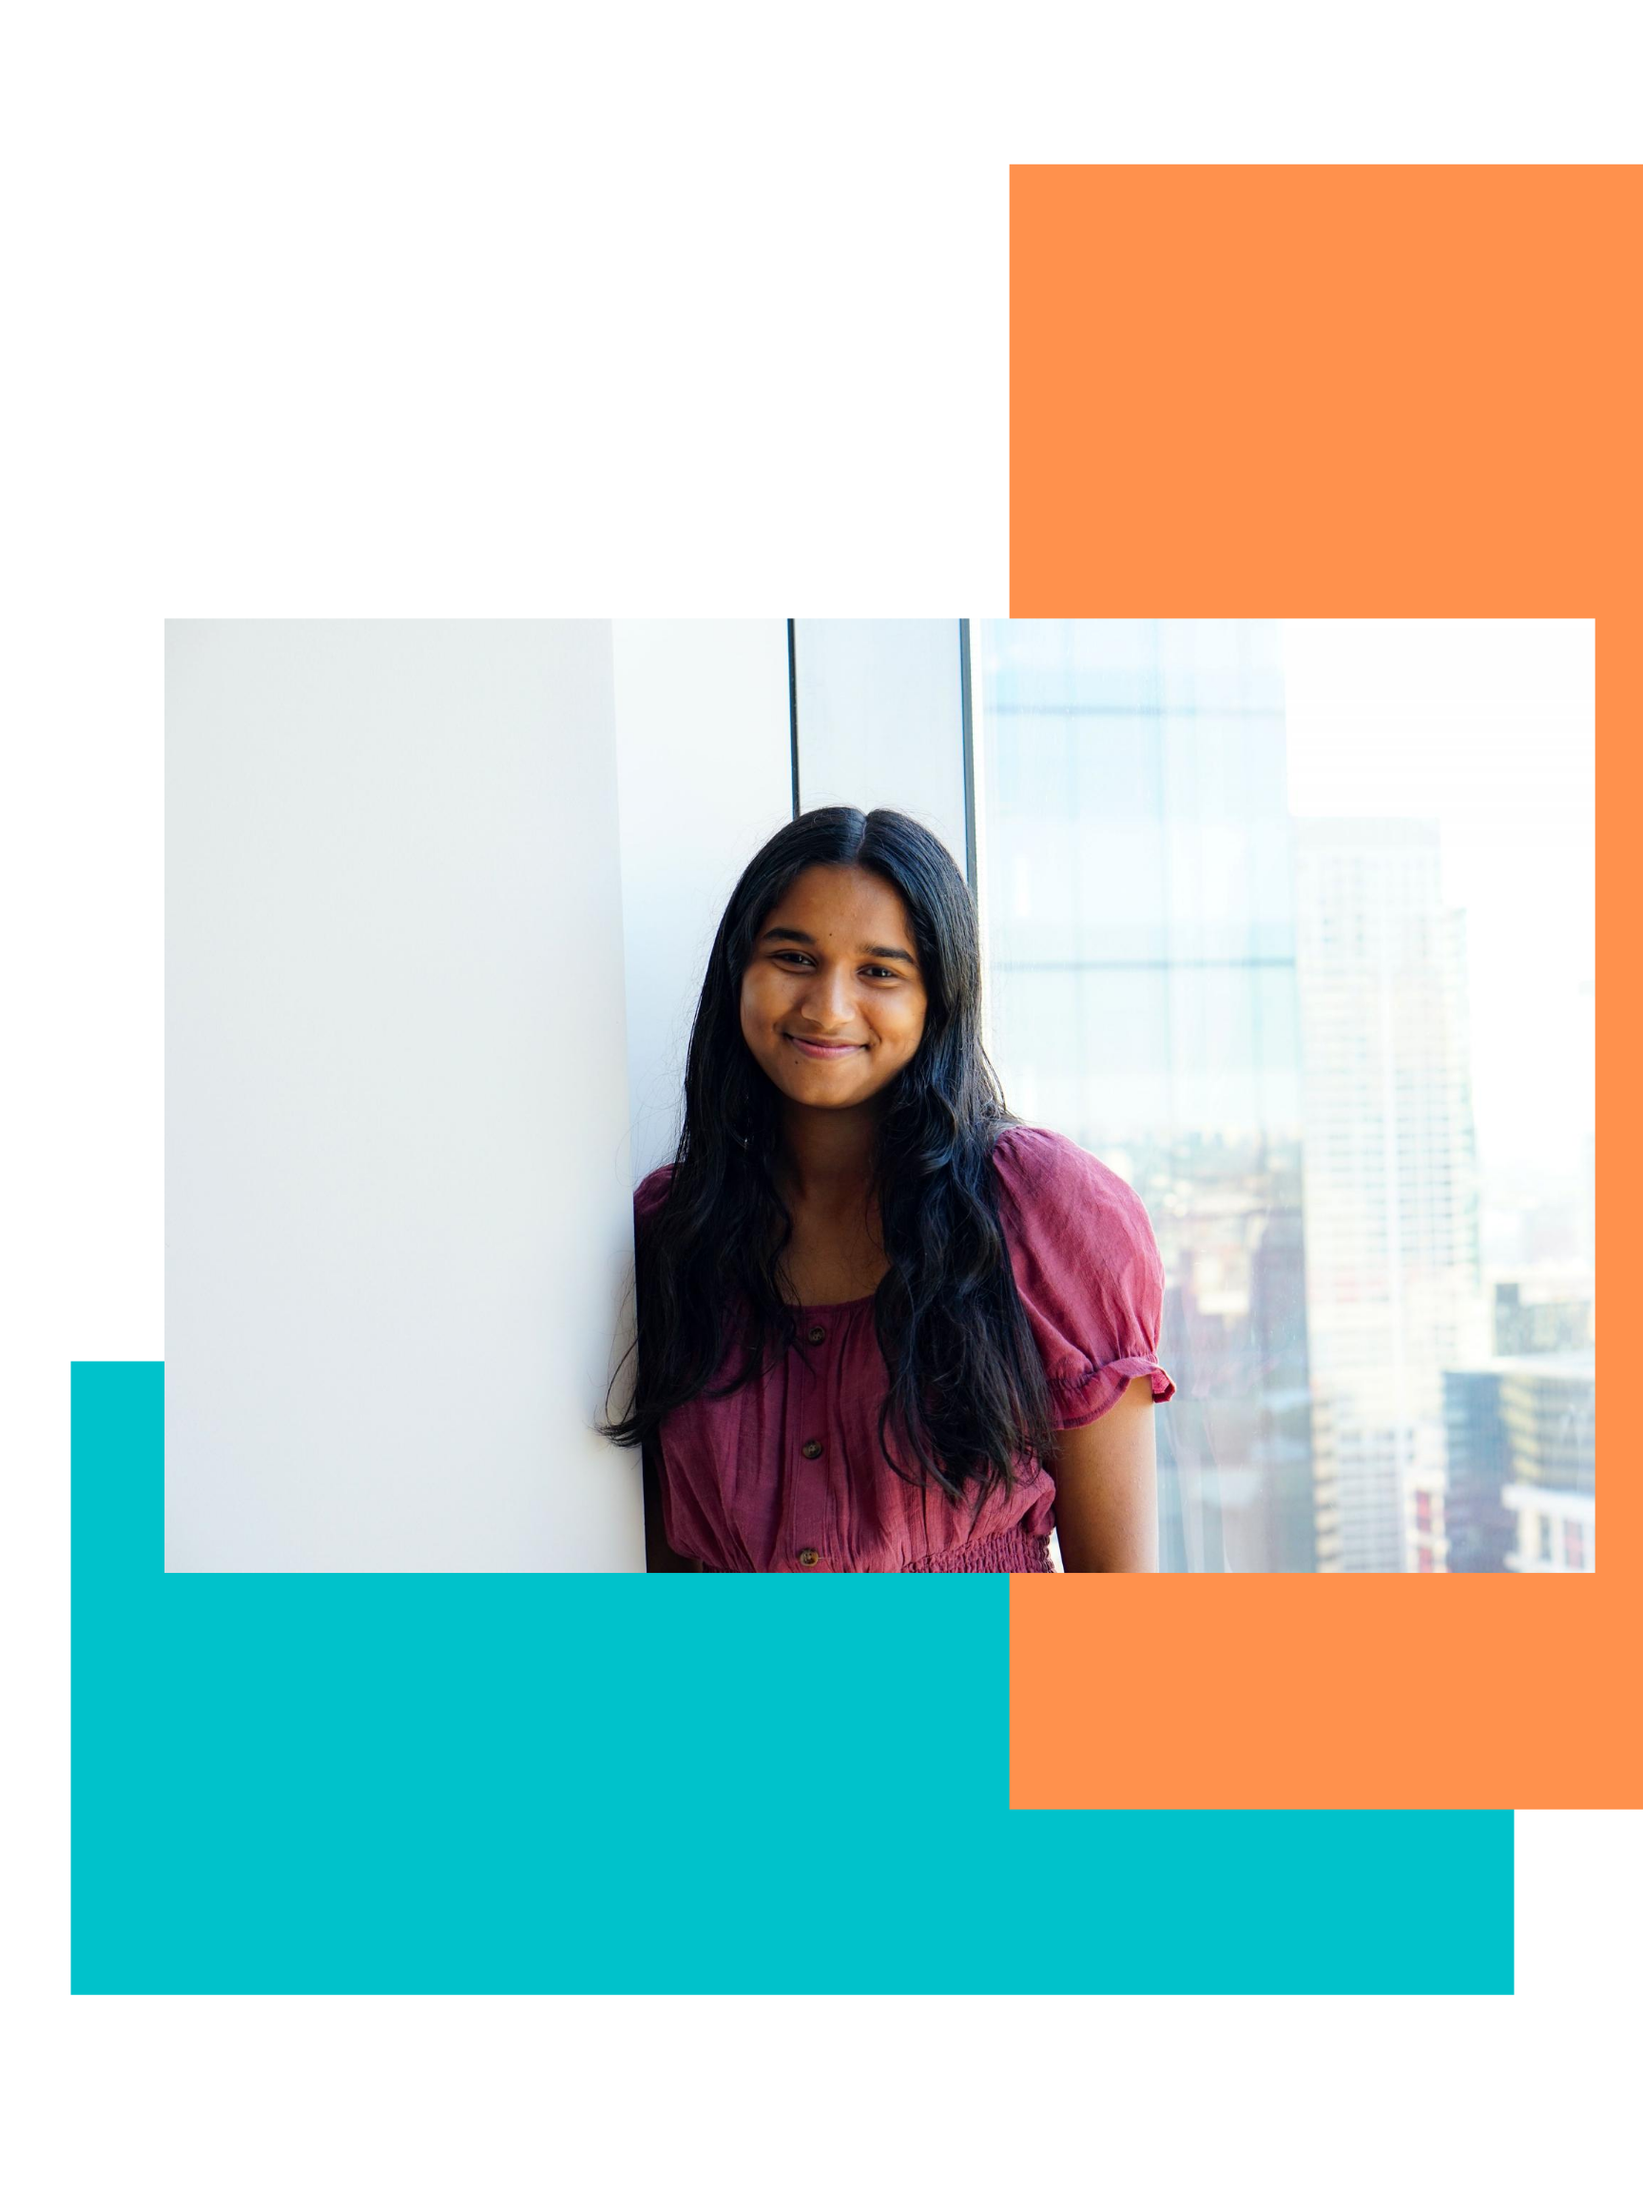
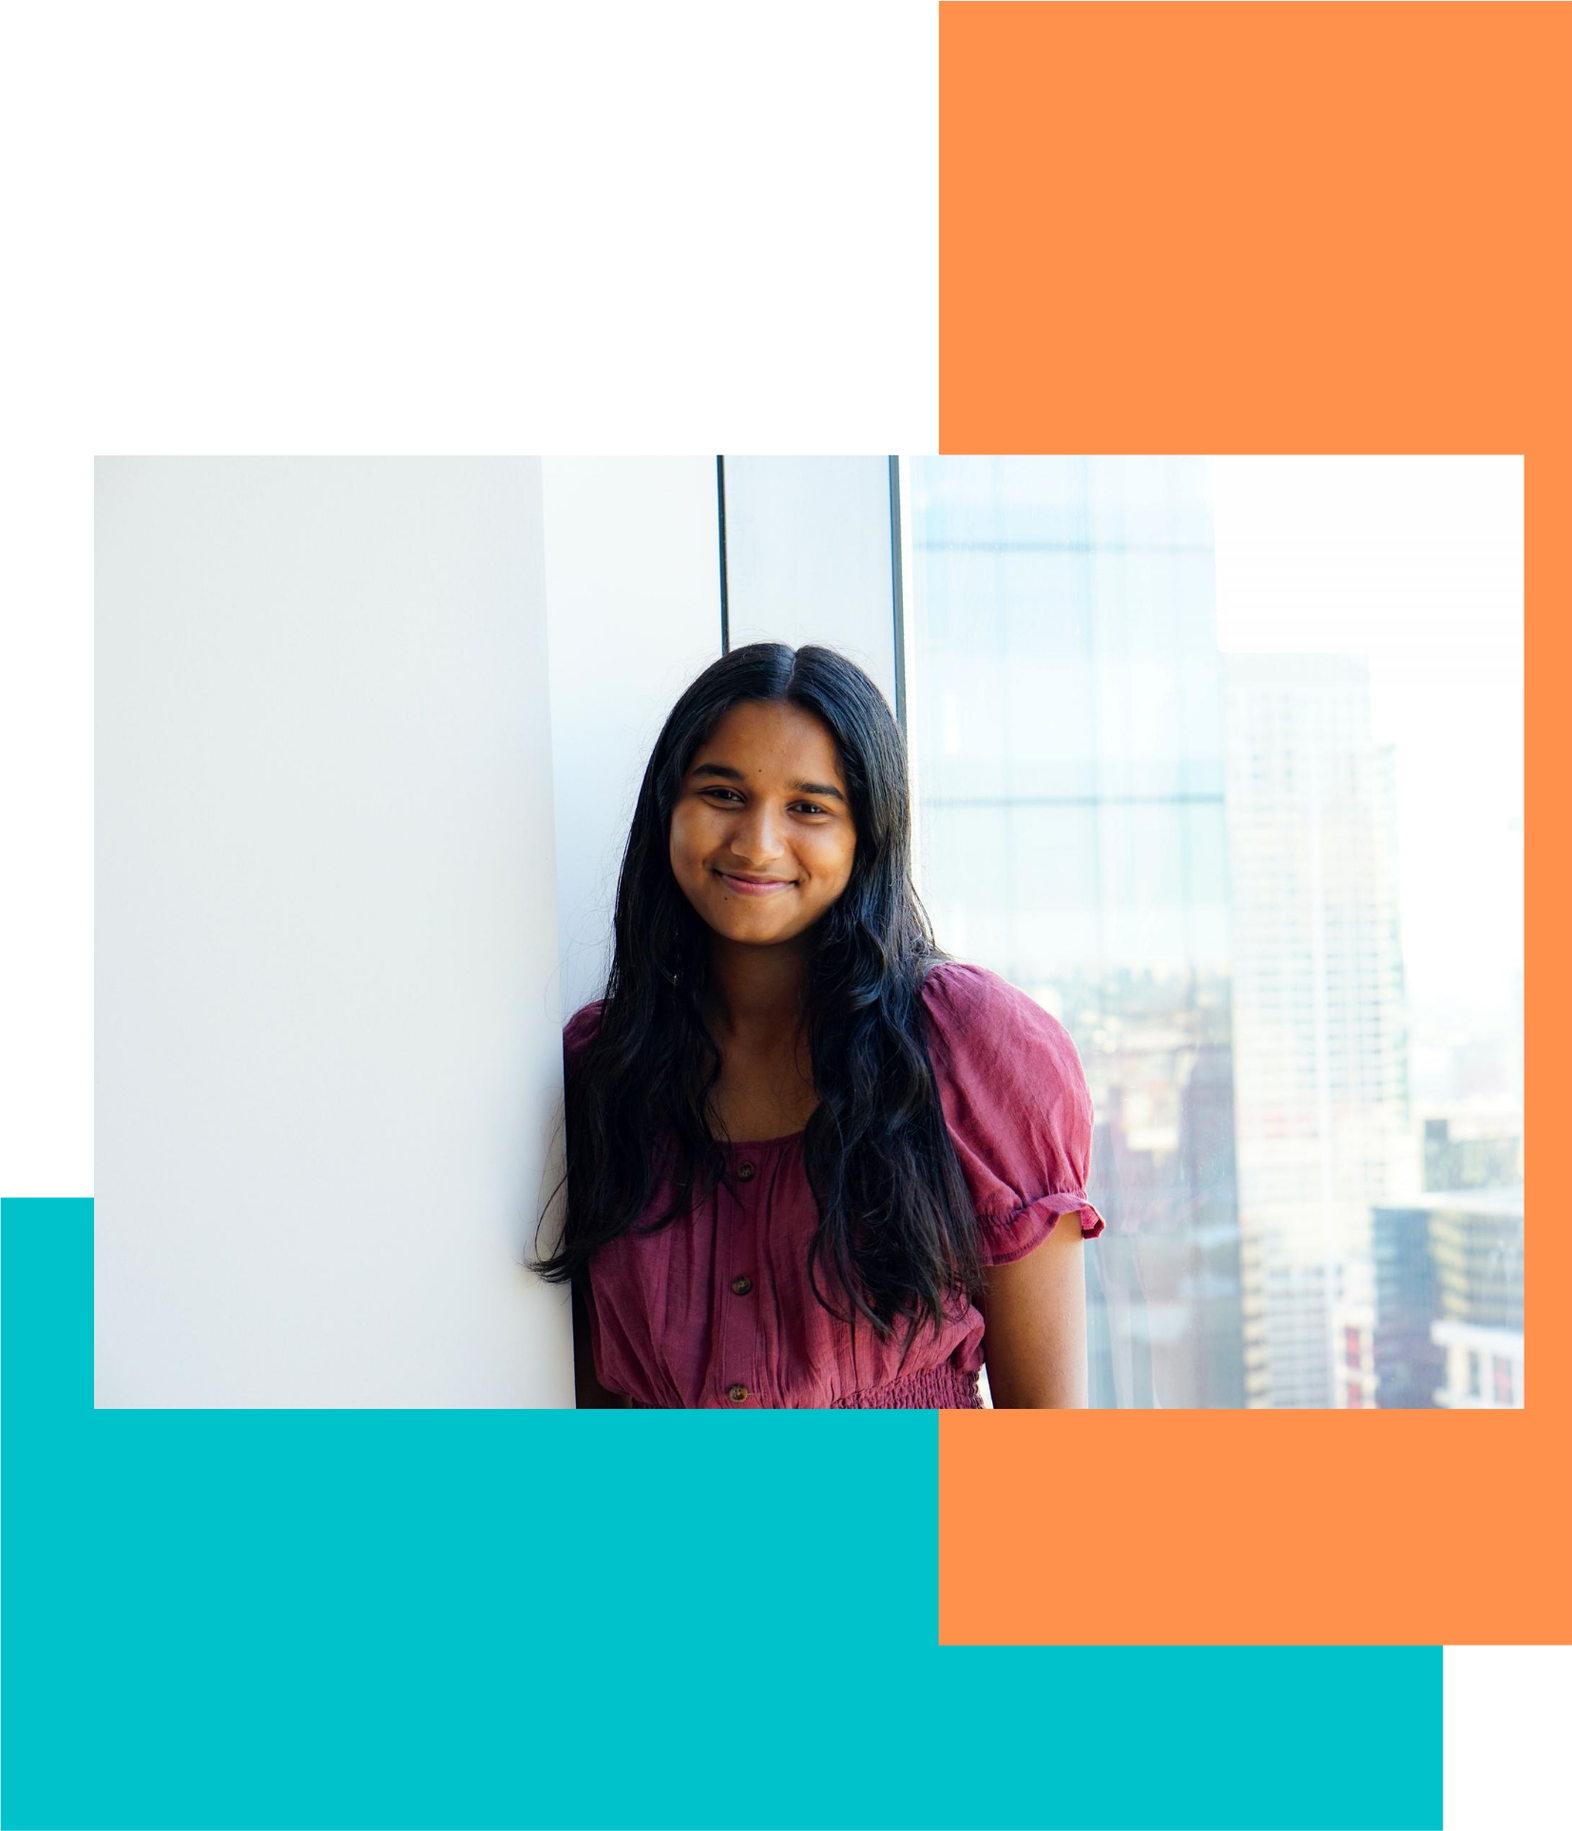
dwada

diff --git a/OYMS Website/about.html b/OYMS Website/about.html
@@ -35,28 +35,26 @@
         
         <!--End of Header-->
         
-        <div class="about-oyms" data-aos="fade-up" data-aos-offset=400 data-aos-mirror="true">
+        <div class="about-oyms" data-aos="fade-up" data-aos-offset=400 >
             <h1 class="page-title">ABOUT OYMS</h1>
 
             <div class="pres-msg">
-                <div data-aos="fade-up" data-aos-delay=200 data-aos-duration=900 data-aos-offset=400 data-aos-mirror="true">
+
+                <div data-aos="fade-up" data-aos-delay=200 data-aos-duration=900 data-aos-offset=400 data-aos-="true">
                     <img id="navya-img" src="img/about/navya-portrait.png" alt="Portrait of Navya"/>
                 </div>
                 
-                <div class="msg-text" data-aos="fade-left" data-aos-delay=400 data-aos-duration=700 data-aos-offset=400 data-aos-mirror="true">
+                <div class="msg-text" data-aos="fade-left" data-aos-delay=400 data-aos-duration=700 data-aos-offset=400>
                     <h2 class='left-align'>President's Message</h2>
-        
                     <p>Hey I'm Navya, the president of OYMS!</p>
-
                     <p>Some time ago, I realized how confusing it really is to want to go into the health field and have a health career.</p>
-                    
                     <p>A lot of organizations advocate for the many issues in our health field - there's a lot! However, I think there's a better way to make impact. <b>If there's so many problems, why isn't anyone solving them?</b></p>
-                        
                     <p>And so, that is why I started the Ontario Youth Medical Society, to solve these problems. To have a team of youth who can help set up events like hackathons to understand issues in the field, and then solve them. <b>To connect youth with people who are currently trying to solve these problems, and understand their perspective.</b></p>
                 </div>
+
             </div>
 
-            <div class="center-parent" data-aos="fade" data-aos-offset=0 data-aos-delay=400 data-aos-duration="1700" data-aos-mirror="true"> 
+            <div class="center-parent" data-aos="fade" data-aos-offset=0 data-aos-delay=400 data-aos-duration="1700"> 
                 <a href="#our-mission" class="svg">
                     <object class="arrow bounce" width="60" data="icons/arrow.svg" type="image/svg+xml">
                         <img src="icons/arrow.png"/>
@@ -67,7 +65,7 @@
         </div>
 
 
-        <section id="our-mission" data-aos="fade-right" data-aos-mirror="true">
+        <section id="our-mission" data-aos="fade-right">
             <h2>OUR MISSION</h2>
             <p>The Youth Medical Society is a team of youth in Ontario who are passionate about making a difference in the medical field. Our mission is to help prospective medical students expand their horizons and get a glimpse into the healthcare field. We want to provide more opportunities to connect with key people in this field and understand the different careers available in this field. We want youth to not only understand the key issues in the health field, but promote a problem solving mindset and solve the issue.</p>
         </section>

diff --git a/OYMS Website/style.css b/OYMS Website/style.css
@@ -88,6 +88,14 @@
     box-sizing: border-box;
 }
 
+html {
+    scroll-behavior: smooth;
+}
+
+body {
+    font-family: "Poppins", sans-serif;
+    
+}
 
 .cta {
     display: inline-block;
@@ -128,13 +136,6 @@
     background-color: var(--color2);
 }
 
-html {
-    scroll-behavior: smooth;
-}
-
-body {
-    font-family: "Poppins", sans-serif;
-}
 
 #header .wrapper {
     width: 1200px;

diff --git a/OYMS Website/about-style.css b/OYMS Website/about-style.css
@@ -10,6 +10,7 @@
 }
 
 .pres-msg {
+    /* background-color: tomato; */
     margin: 0 auto;
     display: flex;
     justify-content: center;
@@ -34,7 +35,8 @@ p {
 }
 
 #navya-img {
-    width: 45vh;
+    width: 25vw;
+    min-width: 400px;
     height: auto;
 }
 
